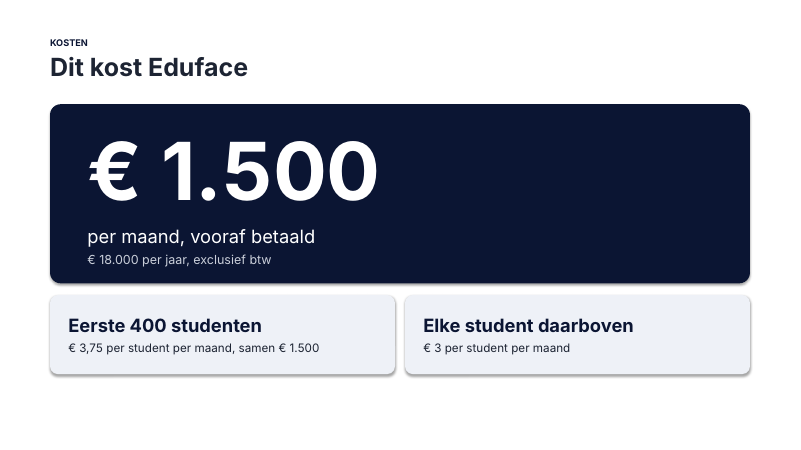
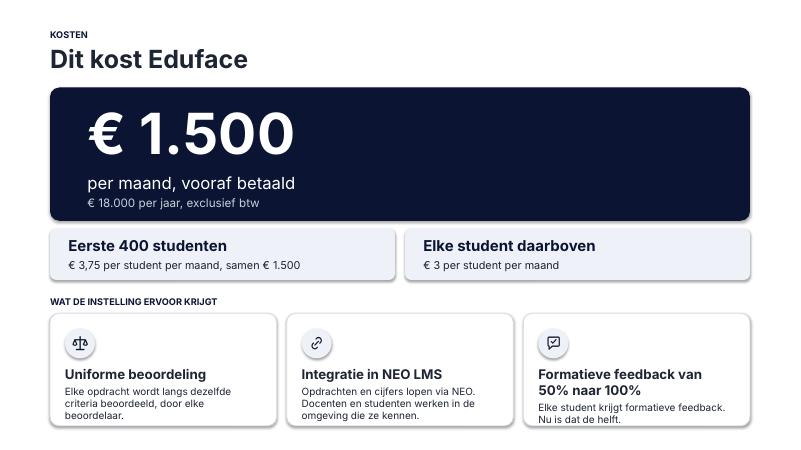
Business case: prijspagina met wat de instelling ervoor krijgt
Claude-Session: https://claude.ai/code/session_01N8nwrWExSKGjo2t8Td3eSo

Changed region(s): [[0.0624, 0.0622, 0.9363, 0.9644]]

diff --git a/GTM/Knowledge/business-case/pptx/prijs_pptx.py b/GTM/Knowledge/business-case/pptx/prijs_pptx.py
@@ -36,20 +36,39 @@ def tekst(x, y, w, h, regels, anchor=MSO_ANCHOR.TOP):
         r.font.name, r.font.size, r.font.bold, r.font.color.rgb = FONT, Pt(size), bold, kleur
 
 L, B = 120, 1680
-tekst(L, 90, B, 30, [('KOSTEN', 11, True, KLANT, 0)])
-tekst(L, 124, B, 70, [('Dit kost Eduface', 30, True, TEKST, 0)])
+tekst(L, 70, B, 30, [('KOSTEN', 11, True, KLANT, 0)])
+tekst(L, 104, B, 70, [('Dit kost Eduface', 30, True, TEKST, 0)])
 
-blok(L, 250, B, 430, KLANT, 0.06)
-tekst(L + 90, 250, B - 180, 430, [('€ 1.500', 96, True, WIT, 0),
-                                   ('per maand, vooraf betaald', 22, False, WIT, 10),
-                                   ('€ 18.000 per jaar, exclusief btw', 15, False, WITZACHT, 6)], anchor=MSO_ANCHOR.MIDDLE)
+blok(L, 210, B, 320, KLANT, 0.07)
+tekst(L + 90, 210, B - 180, 320, [('€ 1.500', 68, True, WIT, 0),
+                                   ('per maand, vooraf betaald', 20, False, WIT, 8),
+                                   ('€ 18.000 per jaar, exclusief btw', 14, False, WITZACHT, 4)], anchor=MSO_ANCHOR.MIDDLE)
 
 W = (B - 24) / 2
 for i, (kop, sub) in enumerate([('Eerste 400 studenten', '€ 3,75 per student per maand, samen € 1.500'),
                                 ('Elke student daarboven', '€ 3 per student per maand')]):
     x = L + i * (W + 24)
-    blok(x, 708, W, 190, TINT, 0.1)
-    tekst(x + 44, 708, W - 88, 190, [(kop, 22, True, KLANT, 0), (sub, 14, False, TEKST, 6)], anchor=MSO_ANCHOR.MIDDLE)
+    blok(x, 548, W, 124, TINT, 0.12)
+    tekst(x + 44, 548, W - 88, 124, [(kop, 18, True, KLANT, 0), (sub, 13, False, TEKST, 4)], anchor=MSO_ANCHOR.MIDDLE)
+
+# Wat de instelling ervoor krijgt
+import os
+HIER = os.path.dirname(os.path.abspath(__file__))
+LIJNKLR = RGBColor(0xD9, 0xDD, 0xE4)
+tekst(L, 712, B, 30, [('WAT DE INSTELLING ERVOOR KRIJGT', 11, True, KLANT, 0)])
+W3 = (B - 2 * 24) / 3
+for i, (icoon, kop, sub) in enumerate([
+        ('consistent', 'Uniforme beoordeling', 'Elke opdracht wordt langs dezelfde criteria beoordeeld, door elke beoordelaar.'),
+        ('koppeling', 'Integratie in NEO LMS', 'Opdrachten en cijfers lopen via NEO. Docenten en studenten werken in de omgeving die ze kennen.'),
+        ('feedback', 'Formatieve feedback van 50% naar 100%', 'Elke student krijgt formatieve feedback. Nu is dat de helft.')]):
+    x = L + i * (W3 + 24)
+    v = s.shapes.add_shape(MSO_SHAPE.ROUNDED_RECTANGLE, E(x), E(752), E(W3), E(270))
+    v.adjustments[0] = 0.08; v.fill.solid(); v.fill.fore_color.rgb = WIT
+    v.line.color.rgb = LIJNKLR; v.line.width = Pt(1); v.shadow.inherit = False
+    rondje = s.shapes.add_shape(MSO_SHAPE.OVAL, E(x + 36), E(788), E(72), E(72))
+    rondje.fill.solid(); rondje.fill.fore_color.rgb = TINT; rondje.line.fill.background(); rondje.shadow.inherit = False
+    s.shapes.add_picture(os.path.join(HIER, 'assets', icoon + '.png'), E(x + 52), E(804), E(40), E(40))
+    tekst(x + 36, 880, W3 - 72, 130, [(kop, 16, True, TEKST, 0), (sub, 12, False, TEKST, 4)])
 
 out = sys.argv[1]; prs.save(out)
 p = Presentation(out)
